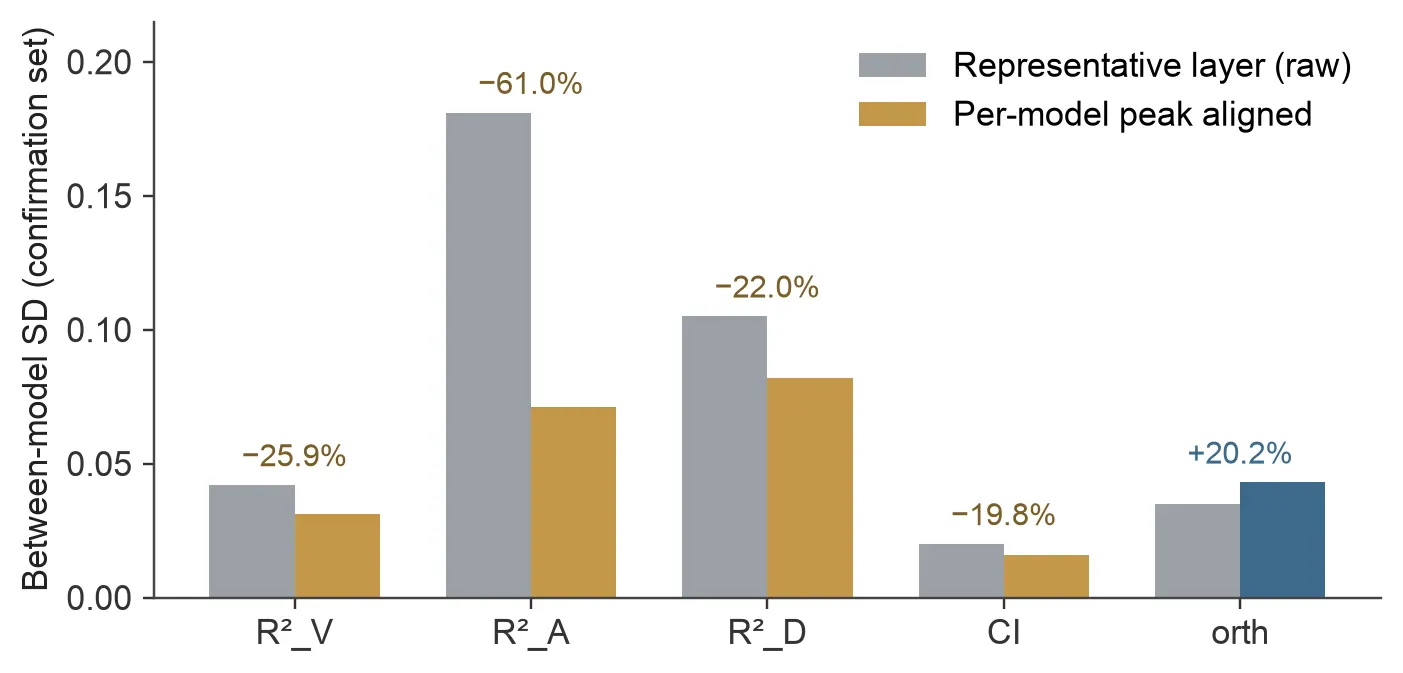
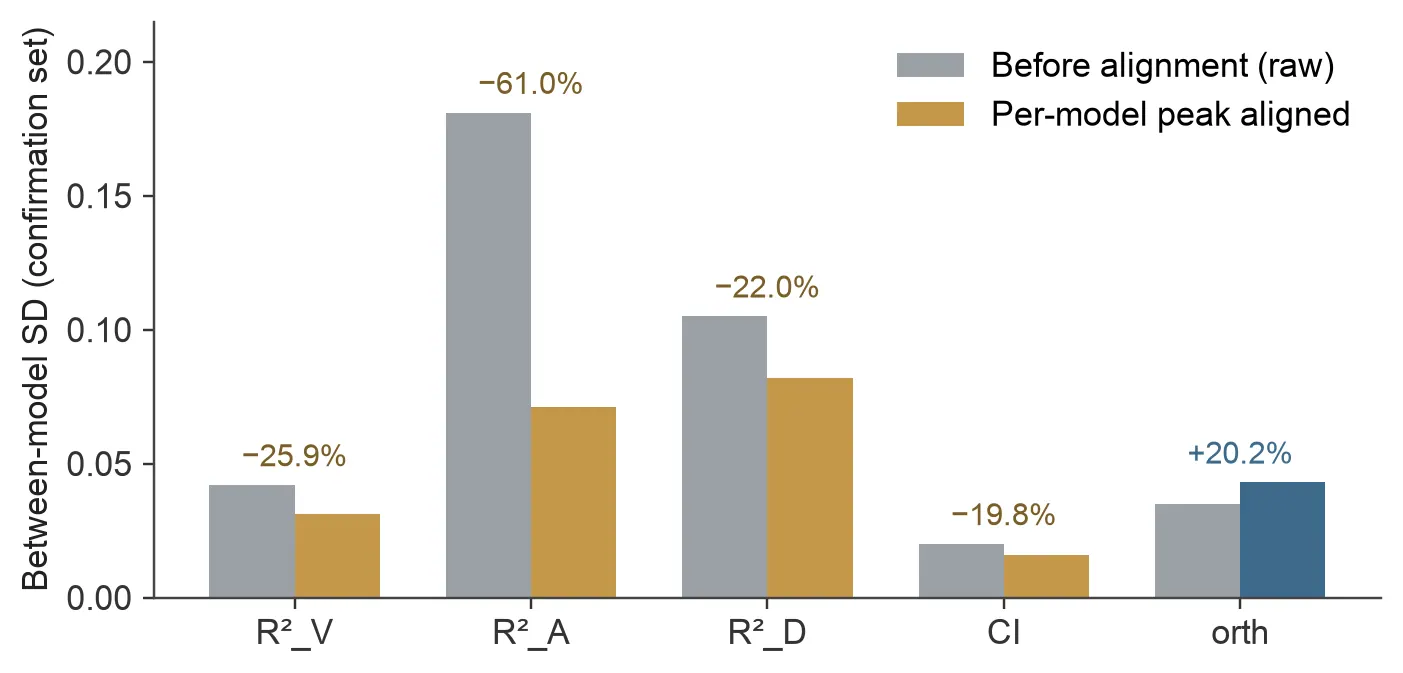
Align column posts with the published and SSRN versions
JPR post and publication entry list all four authors (Crossref); the ASC
entry gives vol. 204 / 116630 (Jan. 2027 issue, online 2026-10-16); the
WSDM news summary follows the camera-ready abstract; Discover Artificial
Intelligence is spelled correctly; four SSRN posts checked against the
SSRN PDFs.

Changed region(s): [[0.613, 0.0624, 0.9808, 0.2184]]

diff --git a/src/data/news.ts b/src/data/news.ts
@@ -141,7 +141,7 @@ export const allNews: NewsItem[] = [
         authors: "Keito Inoshita",
         venue: "WSDM 2027 (Main Conference)",
         summary:
-          "LLMを評価者（judge）として並べたパネルは、判定者を増やせば信頼できると考えられてきた。本論文は理論と2つの独立したパネルで、最初の判定者ファミリー以降、追加の判定者が識別集合を縮めるのは、その誤りが既存の判定者の張る錐の外にあるときだけであることを示す。7プロバイダのパネルでは最初のファミリーが識別集合の42%を削り、残り6つは測定できる寄与を持たなかった。一方、LLMJudgeパネルでは、プールに既にある明確な2項目だけで18%が削れた。識別可能性を決めるのは判定者の数ではなく、プールの構成と評価契約の選び方であり、どのファミリーが寄与するかは調達の前に検定できる。",
+          "LLMを評価者（judge）として並べたパネルは、判定者を増やせば信頼できると考えられてきた。本論文は、判定者を足して効くかどうかは判定者の数ではなく、判定に使うプールと評価契約の条件で決まることを示す。パネルをファミリー単位の潜在クラスモデルとして扱い、識別に必要な条件と、ファミリーを足しても消えない混同の下限を導いた。ファミリーが識別力を増やすのは、その誤りが既存のファミリーから導けない場合だけで、二値ラベルでは調達の前に2つの尤度比で判定できる。独立に判定された2つのパネルでは、最初のファミリー以降のファミリーで識別集合の直径が縮むことは検出されず、二値の判定は検証した69件すべてを当てた。プールに既にある正解確認済みの明確な2項目で直径は18%縮んだが、LLMJudgeパネルではそうした項目が1つの関連度レベルにしかない。",
       },
     ],
   },

diff --git a/src/data/news.en.ts b/src/data/news.en.ts
@@ -132,7 +132,7 @@ export const allNews: NewsItem[] = [
         authors: "Keito Inoshita",
         venue: "WSDM 2027 (Main Conference)",
         summary:
-          "Practitioners add judges to make an LLM evaluation panel more reliable. The paper shows, in theory and on two independently judged panels, that after the first judge family further judges shrink the identification set only when their errors escape the cone spanned by the existing ones. On a panel of seven providers the first family removes 42% of the identification set and the six after it remove nothing measurable; on the LLMJudge panel, two unambiguous items already in the pool remove 18%. Identifiability is governed by pool composition and contract choice rather than judge count, and which families contribute can be tested before they are procured.",
+          "Practitioners add judges to make an LLM evaluation panel more reliable. The paper shows that added judges help only under conditions on the judging pool and the evaluation contract, not on the number of judges. Modelling the panel as a family-level latent-class model, it derives when the panel is identified and a common-confusion floor that no added family removes. A family adds identification power only if its errors are not implied by the existing families, which for binary labels two likelihood ratios decide before procurement. On two independently judged panels, families after the first gave no detected reduction in the diameter of the identification set, and the binary check predicted all 69 tested cases. Two gold-confirmed unambiguous items already in the pool reduced the diameter by 18%, but on the LLMJudge panel such items exist for only one relevance level.",
       },
     ],
   },

diff --git a/src/data/publications.en.ts b/src/data/publications.en.ts
@@ -342,8 +342,8 @@ const rawPublications: Publication[] = [
     slug: "inoshita-driver-intervention-2026",
     title:
       "Safety-Aware Evaluation of LLM-Generated Driver Intervention Messages through Multi-Task Risk Fusion",
-    venue: "Applied Soft Computing",
-    date: "2026-10-15",
+    venue: "Applied Soft Computing, vol. 204, 116630 (Jan. 2027 issue)",
+    date: "2026-10-16",
     year: 2026,
     authors: "Keito Inoshita",
     kind: "journal-international",
@@ -406,7 +406,7 @@ const rawPublications: Publication[] = [
   {
     slug: "world-model-sarcasm-2026",
     title: "World model inspired sarcasm reasoning with large language model agents",
-    venue: "Discovery Artificial Intelligence, vol. 6, no. 606",
+    venue: "Discover Artificial Intelligence, vol. 6, no. 606",
     date: "2026-05-01",
     year: 2026,
     authors: "Keito Inoshita, Shinnosuke Mizuno",
@@ -696,10 +696,10 @@ const rawPublications: Publication[] = [
     slug: "sugeno-plankton-2026",
     title:
       "Applying large language models to expert-based etymological classification in zooplankton",
-    venue: "Journal of Plankton Research",
+    venue: "Journal of Plankton Research, vol. 48, no. 5",
     date: "2026-07-01",
     year: 2026,
-    authors: "Haruto Sugeno, Keito Inoshita, Kota Nojiri",
+    authors: "Haruto Sugeno, Keito Inoshita, Kota Nojiri, Takumi Taga",
     kind: "journal-international",
     reviewed: true,
     href: "https://doi.org/10.1093/plankt/fbag061",

diff --git a/src/data/publications.ts b/src/data/publications.ts
@@ -342,8 +342,8 @@ const rawPublications: Publication[] = [
     slug: "inoshita-driver-intervention-2026",
     title:
       "Safety-Aware Evaluation of LLM-Generated Driver Intervention Messages through Multi-Task Risk Fusion",
-    venue: "Applied Soft Computing",
-    date: "2026-10-15",
+    venue: "Applied Soft Computing, vol. 204, 116630 (Jan. 2027 issue)",
+    date: "2026-10-16",
     year: 2026,
     authors: "Keito Inoshita",
     kind: "journal-international",
@@ -406,7 +406,7 @@ const rawPublications: Publication[] = [
   {
     slug: "world-model-sarcasm-2026",
     title: "World model inspired sarcasm reasoning with large language model agents",
-    venue: "Discovery Artificial Intelligence, vol. 6, no. 606",
+    venue: "Discover Artificial Intelligence, vol. 6, no. 606",
     date: "2026-05-01",
     year: 2026,
     authors: "Keito Inoshita, Shinnosuke Mizuno",
@@ -696,10 +696,10 @@ const rawPublications: Publication[] = [
     slug: "sugeno-plankton-2026",
     title:
       "Applying large language models to expert-based etymological classification in zooplankton",
-    venue: "Journal of Plankton Research",
+    venue: "Journal of Plankton Research, vol. 48, no. 5",
     date: "2026-07-01",
     year: 2026,
-    authors: "Haruto Sugeno, Keito Inoshita, Kota Nojiri",
+    authors: "Haruto Sugeno, Keito Inoshita, Kota Nojiri, Takumi Taga",
     kind: "journal-international",
     reviewed: true,
     href: "https://doi.org/10.1093/plankt/fbag061",

diff --git a/scripts/column-figs-ssrn-affeline.py b/scripts/column-figs-ssrn-affeline.py
@@ -1,7 +1,7 @@
 """Figures for the Affeline research-blog post. Every number is copied from the
-SSRN manuscript (paper/Affeline_SSRN_20261031: Tables 3-5, Sections 4.2-4.6, 5.1,
-and generated/tab_transfer.tex, the source of Figure 4); nothing is recomputed
-except the simple per-task differences noted below."""
+SSRN preprint (abstract id 7685008: Tables 3-5, 7, Sections 4.2-4.6, 5.1, and the
+data plotted in Figure 4, checked against the posted PDF on 2026-11-27); nothing
+is recomputed except the simple per-task differences noted below."""
 import matplotlib
 matplotlib.use("Agg")
 import matplotlib.pyplot as plt
@@ -10,7 +10,7 @@ from PIL import Image
 
 OUT = "/Users/ishitatakashishou/Sites/affectosphere-lab/public/column-images/ssrn-affeline/"
 SRC = ("/private/tmp/claude-501/-Users-ishitatakashishou/62e336aa-c915-4181-a249-1463c108b1af/"
-       "scratchpad/ssrn-affeline/")
+       "scratchpad/affeline-ssrn/")
 AMBER, STEEL, GREY, LIGHT = "#C4974A", "#3D6B8C", "#9AA0A6", "#D9D4CB"
 plt.rcParams.update({
     "font.family": "Arial", "font.size": 11, "axes.edgecolor": "#444",
@@ -24,7 +24,7 @@ def save(fig, name):
     plt.close(fig)
 
 # 0. Method figures: crops of the manuscript's own Figure 1 and Figure 2
-#    (pages 5 and 6 rendered at 220 dpi with pdftoppm).
+#    (pages 5 and 6 of the SSRN PDF rendered at 220 dpi with pdftoppm).
 Image.open(SRC + "pg-05.png").crop((325, 160, 1350, 955)).save(OUT + "architecture.png")
 Image.open(SRC + "pg-06.png").crop((205, 510, 1460, 925)).save(OUT + "late-read.png")
 

diff --git a/scripts/column-figs-ssrn-shared-affective-geometry.py b/scripts/column-figs-ssrn-shared-affective-geometry.py
@@ -1,7 +1,7 @@
 """Figures for the 'shared affective geometry' research-blog post (SSRN 7551120).
-Every number is copied from the real-name preprint source
-(AffectGeometry_arxiv.zip, sections/05_experiments.tex); nothing is recomputed.
-The pipeline figure (pipeline.png) is the paper's own Fig. 1 converted from PDF."""
+Every number is copied from the posted SSRN PDF (ssrn-7551120.pdf, Section V,
+Tables II-VII); nothing is recomputed.
+The pipeline figure (pipeline.png) is the paper's own Fig. 1 (checked against the SSRN PDF)."""
 import matplotlib
 matplotlib.use("Agg")
 import matplotlib.pyplot as plt
@@ -47,7 +47,7 @@ ali = [0.031, 0.071, 0.082, 0.016, 0.043]
 red = ["−25.9%", "−61.0%", "−22.0%", "−19.8%", "+20.2%"]
 x = np.arange(5); w = .36
 fig, ax = plt.subplots(figsize=(7.2, 3.4))
-ax.bar(x - w/2, raw, w, color=GREY, label="Representative layer (raw)")
+ax.bar(x - w/2, raw, w, color=GREY, label="Before alignment (raw)")
 ax.bar(x + w/2, ali, w, color=[AMBER, AMBER, AMBER, AMBER, STEEL], label="Per-model peak aligned")
 for xi, r, a, t in zip(x, raw, ali, red):
     ax.text(xi, max(r, a) + .007, t, ha="center", fontsize=10,

diff --git a/src/content/column-en/ssrn-shared-affective-geometry.md b/src/content/column-en/ssrn-shared-affective-geometry.md
@@ -68,7 +68,7 @@ Four quantities are computed for every model, layer and stimulus condition.
 
 1. **Orthogonality (orth).** The smallest principal angle between the VAD subspace and the discrete-category subspace, divided by π/2. Near 1 means the two are independent; near 0 means they are nearly collinear.
 2. **Circularity (CI).** How circumplex-like the stimuli look when projected into the VAD subspace.
-3. **Linear decodability (R²).** How well ridge regression recovers valence, arousal and dominance from the activations.
+3. **Linear decodability (R²).** How well linear regression recovers valence, arousal and dominance from the activations.
 4. **Interaction excess.** Whether the geometry differs between high- and low-arousal stimuli beyond what a random split produces.
 
 **Universality** is defined as an equivalence problem. An index is universal when the between-model standard deviation is shown to be smaller than a margin Δ. The margin, Δ = 0.136, is derived from human cross-linguistic variation in emotion semantics and was fixed before the confirmation data were opened. Stimuli were split 50/50 into a discovery set, used only to set up procedures, and a confirmation set, examined once.
@@ -97,14 +97,14 @@ Orthogonality (SD 0.053, p = 6.26 × 10⁻¹⁰) and circularity (SD 0.049, p = 
 
 At the same layer, all three linear decodability indices fail: R²_V 0.197, R²_A 0.316, R²_D 0.259, all above 0.136. Read naively, this says the models share the shape of the emotion space but differ in how readable it is. The later experiments show that most of the second half is a depth effect.
 
-Two checks guard the geometric result. Random subspaces drawn in the same PCA space give orthogonality 0.691 for 6-dimensional subspaces and 0.038 for 47-dimensional ones. The observed values sit far from both.
+A saturation control checks that the geometric result is not an artifact of subspace size. Random subspaces drawn in the same PCA space give orthogonality 0.691 for 6-dimensional subspaces and 0.038 for 47-dimensional ones. The observed values sit far from both.
 
 <figure>
   <img src="/column-images/ssrn-shared-affective-geometry/saturation-1600.webp" alt="Saturation control" />
   <figcaption><strong>Figure 3.</strong> Observed orthogonality compared with random subspaces of the two dimensionalities used. The observed 0.467 and 0.460 lie well outside both random ranges, so the value is not an artifact of subspace size.</figcaption>
 </figure>
 
-On the combined set, mean orthogonality is 0.460 with SD 0.039 (universal, p = 2.40 × 10⁻¹⁴). The pre-registered decision tree, which sorts models into dimensional or discrete types, left 36 of 38 models inconclusive, because they concentrate near 0.460, between the 0.15 and 0.50 thresholds. A Gaussian mixture prefers a single component and a dip test finds no bimodality. **Models do not split into "dimensional" and "discrete" types; they share an intermediate relation.** The interaction excess was inconclusive (p = 0.233).
+On the combined set, mean orthogonality is 0.460 with SD 0.039 (universal, p = 2.40 × 10⁻¹⁴). The pre-registered decision tree, which sorts models into dimensional or discrete types, left 36 of 38 models (combined set) and 32 of 38 (word templates) inconclusive, because they concentrate near 0.460, between the 0.15 and 0.50 thresholds. A Gaussian mixture prefers a single component and a dip test finds no bimodality. **Models do not split into "dimensional" and "discrete" types; they share an intermediate relation.** The interaction excess was inconclusive (p = 0.233).
 
 ## Experiment 2: Are decodability differences real?
 
@@ -138,7 +138,7 @@ All 38 models follow a similar single-peaked trajectory across layers. The media
   <figcaption><strong>Figure 5.</strong> Between-model SD of arousal decodability at different reading positions. The two stimulus conditions use different items and should not be compared with each other directly.</figcaption>
 </figure>
 
-For EmoBank condB read at a common relative depth of 0.60, all three decodability indices pass (SD 0.074, 0.033 and 0.029 for V, A and D). Arousal moves from not universal at the representative layer to universal under both alignment procedures. Word templates stay above the margin at both positions (0.316 and 0.151), so the change of verdict depends on the stimulus condition as well as the position.
+For EmoBank condB read at a common relative depth of 0.60, all three decodability indices pass (SD 0.074, 0.033 and 0.029 for V, A and D). Arousal moves from not universal at the representative layer to universal under both alignment procedures. Word templates stay above the margin at both positions (0.316 and 0.151), so, as the paper puts it, the change of verdict follows the reading condition rather than the reading position.
 
 The verdicts are also sensitive to the margin. Orthogonality and circularity stay universal for all executed margins from 0.136 to 0.172 and at the cap of 0.20, but the smallest variant (Δ_B = 0.0397) makes every index not universal.
 
@@ -157,13 +157,13 @@ Seven models were run on the same EmoBank sentences with emotion labels replaced
 
 The control condition also passes the equivalence test for orthogonality, so a conserved subspace arrangement is not unique to emotion. Its degree is different, however: all 7 of 7 models show higher separation for emotion than for the control (two-sided binomial p = 0.016), even though the control is more decodable (0.434 vs 0.233). The paper reads this as a gradient, not as affective exclusivity.
 
-The embedding layer gives a second clue. On word templates, orthogonality at layer 0 is about the same as at depth 0.60 (median ratio 1.00, Wilcoxon p = 0.365), while all R² values are negative at layer 0 in all 38 models. On news headlines (6 models), layer-0 orthogonality is higher than after the forward pass in 6 of 6. **Separation is inherited from the input space; linear decodability is acquired through computation.**
+The embedding layer gives a second clue. On word templates, orthogonality at layer 0 is about the same as at depth 0.60 (median ratio 1.00, Wilcoxon p = 0.365), while all R² values are negative at layer 0 in all 38 models. On news headlines (6 models), layer-0 orthogonality is higher than after the forward pass in 6 of 6. **Separation is already present in the input space; linear decodability appears through computation.** The paper notes that this reading comes from comparing layers and was not tested by manipulating the embedding layer.
 
 ## Experiment 5: Do the directions act on the output?
 
 <p class="experiment-label">Experiment 5</p>
 
-This analysis is **exploratory**: its protocol amendments were not version-controlled. In five models from different lineages (1.5B–8B), an estimated valence direction was added at relative depth 0.60, and the shift in next-token output was compared with a random direction of the same norm.
+This analysis is **exploratory**: its protocol amendments were not version-controlled. Six models from six lineages (1.5B–8B) were selected, and one was excluded for architectural reasons. In the remaining five, an estimated valence direction was added at relative depth 0.60, and the shift in next-token output was compared with a random direction of the same norm.
 
 <figure>
   <img src="/column-images/ssrn-shared-affective-geometry/patching-1600.webp" alt="Activation patching" />

diff --git a/src/content/column-en/ssrn-web-filtering-affective-cost.md b/src/content/column-en/ssrn-web-filtering-affective-cost.md
@@ -71,7 +71,7 @@ We ask three questions.
 
 The measurement has two safeguards. The first is the stimuli. We use the 6,600 event descriptions of crowd-enVENT, each labeled by its writer with one of 13 emotions and rated on 21 appraisal dimensions. The official version already masks the emotion word; we further scrub any remaining emotion words with an extended lexicon. A model can then recover the category only by representing the situation, not by spotting a label word.
 
-The second is the floor. Situation words alone carry emotion cues, so raw probe scores are not interpretable. The floor is the higher of a randomly initialized network of the same architecture and a TF-IDF bag-of-words (BoW) probe, and a model is credited only for what exceeds it. The main measure, M1, is the macro-F1 over 13 categories. M2 (discrimination within negative emotions), M3 (pleasantness regression) and M4 (representational similarity with humans) are also reported.
+The second is the floor. Situation words alone carry emotion cues, so raw probe scores are not interpretable. The floor is the higher of a randomly initialized network of the same architecture and a TF-IDF bag-of-words (BoW) probe, and a model is credited only for what exceeds it. The main measure, M1, is the macro-F1 over 13 categories. M2 (discrimination within negative emotions), M3 (regression on pleasantness and unpleasantness appraisals) and M4 (representational similarity with humans) are also reported.
 
 The stimuli were split into 3,281 discovery and 3,319 confirmation texts before any model was measured.
 

diff --git a/src/content/column-ja/jpr-zooplankton-etymology.md b/src/content/column-ja/jpr-zooplankton-etymology.md
@@ -15,6 +15,8 @@ authors:
     affiliation: "関西大学"
   - name: "Kota Nojiri"
     affiliation: "The University of Tokyo"
+  - name: "Takumi Taga"
+    affiliation: "Nagoya University"
 tldr: "学名の語源の研究は、分類学者が原記載を読んで判断する手間のかかる作業です。この研究では、専門家が語源を分類した動物プランクトン（ワムシと微小甲殻類）989 種のデータを使い、GPT-4o-mini による自動分類がどこまで専門家に一致するかを調べました。全体の正解率は 0.84、Cohen の κ は 0.74 でした。F1 は形態 0.92、人名 0.91、地理 0.83 と高く、生態・行動は 0.62、文化は 0.20 でした。文化では、LLM が文化と判定した名前の多くが専門家の分類では別のカテゴリでした。年ごと・10 年ごとの件数の長期傾向は GAM でほぼ再現でき、両者に有意な差が出たのは文化の年単位の比較（P = 0.04）だけでした。"
 links:
   - label: "Paper (Journal of Plankton Research)"
@@ -23,7 +25,7 @@ citation: |
   @article{sugeno2026applying,
     title   = {Applying large language models to expert-based etymological
                classification in zooplankton},
-    author  = {Sugeno, Haruto and Inoshita, Keito and Nojiri, Kota},
+    author  = {Sugeno, Haruto and Inoshita, Keito and Nojiri, Kota and Taga, Takumi},
     journal = {Journal of Plankton Research},
     volume  = {48},
     number  = {5},

diff --git a/src/content/column-en/jpr-zooplankton-etymology.md b/src/content/column-en/jpr-zooplankton-etymology.md
@@ -15,6 +15,8 @@ authors:
     affiliation: "Kansai University"
   - name: "Kota Nojiri"
     affiliation: "The University of Tokyo"
+  - name: "Takumi Taga"
+    affiliation: "Nagoya University"
 tldr: "Etymological studies of scientific names rely on taxonomists reading original descriptions, which is slow. Using a dataset in which experts labelled the epithet origins of 989 zooplankton species (rotifers and microcrustaceans), we tested how closely GPT-4o-mini matches the experts. Overall accuracy was 0.84 and Cohen's κ 0.74. F1 was high for Morphology (0.92), People (0.91) and Geography (0.83), moderate for Ecology & Behavior (0.62) and low for Culture (0.20): many names the LLM called Culture were assigned elsewhere by experts. GAMs on yearly and decadal counts reproduced the long-term trends, with a significant difference between methods only for Culture at the yearly scale (P = 0.04)."
 links:
   - label: "Paper (Journal of Plankton Research)"
@@ -23,7 +25,7 @@ citation: |
   @article{sugeno2026applying,
     title   = {Applying large language models to expert-based etymological
                classification in zooplankton},
-    author  = {Sugeno, Haruto and Inoshita, Keito and Nojiri, Kota},
+    author  = {Sugeno, Haruto and Inoshita, Keito and Nojiri, Kota and Taga, Takumi},
     journal = {Journal of Plankton Research},
     volume  = {48},
     number  = {5},
